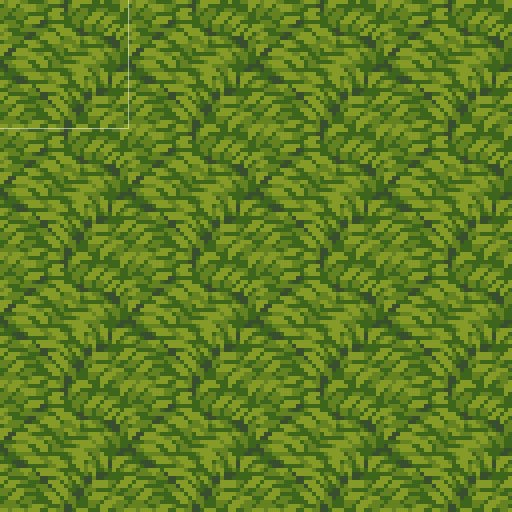
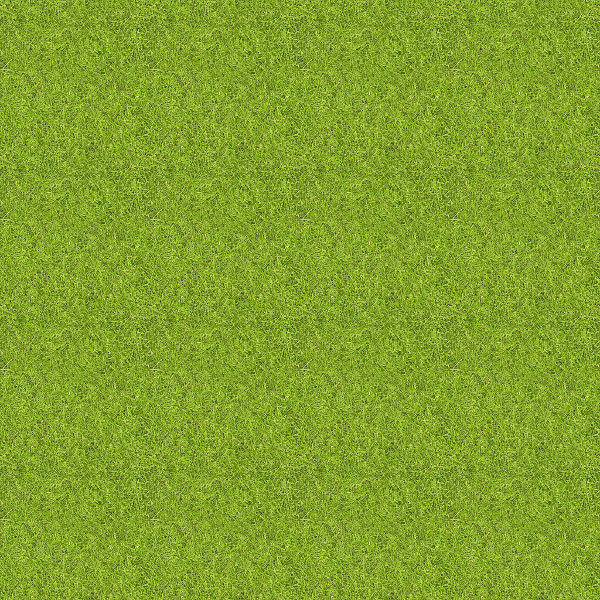
can move around tiles kinda look weird

diff --git a/src/canvas.js b/src/canvas.js
@@ -1,15 +1,22 @@
+
 document.addEventListener("DOMContentLoaded", function () {
   const canvas = document.getElementById("game-canvas");
   canvas.width = 800;
   canvas.height = 600;
   const ctx = canvas.getContext("2d");
-
   const tWidth = 40;
   const tHeight = 40;
-
   const rows = 15;
   const cols = 20;
-
+  let actions = [];
+  const char_up_right = new Image(40,40);
+  char_up_right.src = "./images/char_up_right.png"
+  const char_up_left = new Image(40,40);
+  char_up_left.src = "./images/char_up_left.png"
+  const char_down_left = new Image(40,40);
+  char_down_left.src = "./images/char_down_left.png"
+  const char_down_right = new Image(40,40);
+  char_down_right.src = "./images/char_down_right.png"
 
   const char_left = new Image(40,40);
   char_left.src = "./images/char_left.png"
@@ -26,7 +33,7 @@ document.addEventListener("DOMContentLoaded", function () {
   const brick = new Image(40,40);
   brick.src = "./images/brick.jpg"
   const grass = new Image(40,40);
-  grass.src = "./images/grass.jpg"
+  grass.src = "./images/grass.png"
   const rock = new Image(40,40);
   rock.src = "./images/rock.jpg"
   const grass_water = new Image(40,40);
@@ -34,22 +41,41 @@ document.addEventListener("DOMContentLoaded", function () {
     let facing="down";
     let xpos = 10;
     let ypos = 10;
-    function move(e) {
+    function add_action(e) {
       if (e.keyCode == 39) {
-        xpos+=4;
-        facing = "right"
+        if (!actions.includes("right")){
+          actions.push("right")
+        }
       }
       if (e.keyCode == 37) {
-        xpos-=4;
-        facing = "left"
+        if (!actions.includes("left")){
+          actions.push("left")
+        }
       }
       if (e.keyCode == 38) {
-        ypos-=4;
-        facing = "up"
+        if (!actions.includes("up")){
+          actions.push("up")
+        }
       }
       if (e.keyCode == 40) {
-        ypos+=4;
-        facing = "down"
+        if (!actions.includes("down")){
+          actions.push("down")
+        }
+      }
+    }
+
+    function remove_action(e) {
+      if (e.keyCode == 39) {
+        actions.splice(actions.indexOf("right"))
+      }
+      if (e.keyCode == 37) {
+        actions.splice(actions.indexOf("left"))
+      }
+      if (e.keyCode == 38) {
+        actions.splice(actions.indexOf("up"))
+      }
+      if (e.keyCode == 40) {
+        actions.splice(actions.indexOf("down"))
       }
     }
 
@@ -74,7 +100,9 @@ document.addEventListener("DOMContentLoaded", function () {
   ];
 
   const updateAll = () => {
-    document.onkeydown = move;
+    document.onkeydown = add_action;
+    document.onkeyup = remove_action;
+    action();
     printmap();
     printchar();
     window.requestAnimationFrame(updateAll);
@@ -84,7 +112,36 @@ document.addEventListener("DOMContentLoaded", function () {
     window.requestAnimationFrame(updateAll);
   };
 
- 
+  const action = () => {
+    if (actions.includes("right")) {
+      xpos+=1;
+      facing = "right";
+    }
+    if (actions.includes("left")) {
+      xpos-=1;
+      facing = "left"
+    }
+    if (actions.includes("up")) {
+      ypos-=1;
+      facing = "up"
+    }
+    if (actions.includes("down")) {
+      ypos+=1;
+      facing = "down"
+    }
+    if (actions.includes("up") && actions.includes("left")) {
+      facing = "up_left"
+    }
+    if (actions.includes("down") && actions.includes("left")) {
+      facing = "down_left"
+    }
+    if (actions.includes("up") && actions.includes("right")) {
+      facing = "up_right"
+    }
+    if (actions.includes("down") && actions.includes("right")) {
+      facing = "down_right"
+    }
+  }
 
   const printmap = () => {
     ctx.clearRect(0, 0, canvas.width, canvas.height);
@@ -95,11 +152,8 @@ document.addEventListener("DOMContentLoaded", function () {
           ctx.drawImage(rock, tWidth * j, tHeight * i, 40, 40);
         } else if (map[idx] === 0) {
             ctx.drawImage(grass, tWidth * j, tHeight * i, 40, 40);
-          // ctx.fillRect(tWidth * j, tHeight * i, tWidth, tHeight)
         } else if (map[idx] === 2) {
           ctx.drawImage(water, tWidth * j, tHeight * i, 40, 40);
-          // ctx.fillStyle = "blue"
-          // ctx.fillRect(tWidth * j, tHeight * i, tWidth, tHeight)
         } else if (map[idx] === 3) {
           ctx.drawImage(brick, tWidth * j, tHeight * i, 40, 40);
         } else if (map[idx] === 4) {
@@ -109,26 +163,12 @@ document.addEventListener("DOMContentLoaded", function () {
           ctx.drawImage(grass_water, tWidth * j, tHeight * i, 40, 40);
         } else if (map[idx] === 6) {
           ctx.drawImage(wood, tWidth * j, tHeight * i, 40, 40);
-        }else if (map[idx] === 10) {
-          switch(facing) {
-            case "left":
-              ctx.drawImage(char_left, tWidth * j, tHeight * i, 40, 40);
-              break;
-            case "right":
-              ctx.drawImage(char_right, tWidth * j, tHeight * i, 40, 40);
-              break;
-            case "up":
-              ctx.drawImage(char_up, tWidth * j, tHeight * i, 40, 40);
-              break;
-            case "down":
-              ctx.drawImage(char_down, tWidth * j, tHeight * i, 40, 40);
-          }
-        } 
+        }
       }
     }
   }
+
   const printchar = () => {
-    // ctx.clearRect(0, 0, canvas2.width, canvas2.height);
     switch(facing) {
       case "left":
         ctx.drawImage(char_left, xpos, ypos, 40, 40);
@@ -141,6 +181,19 @@ document.addEventListener("DOMContentLoaded", function () {
         break;
       case "down":
         ctx.drawImage(char_down, xpos, ypos, 40, 40);
+        break;
+      case "up_left":
+        ctx.drawImage(char_up_left, xpos, ypos, 40, 40);
+        break;
+      case "up_right":
+        ctx.drawImage(char_up_right, xpos, ypos, 40, 40);
+        break;
+      case "down_left":
+        ctx.drawImage(char_down_left, xpos, ypos, 40, 40);
+        break;
+      case "down_right":
+        ctx.drawImage(char_down_right, xpos, ypos, 40, 40);
+        break;
     }
   }
 
